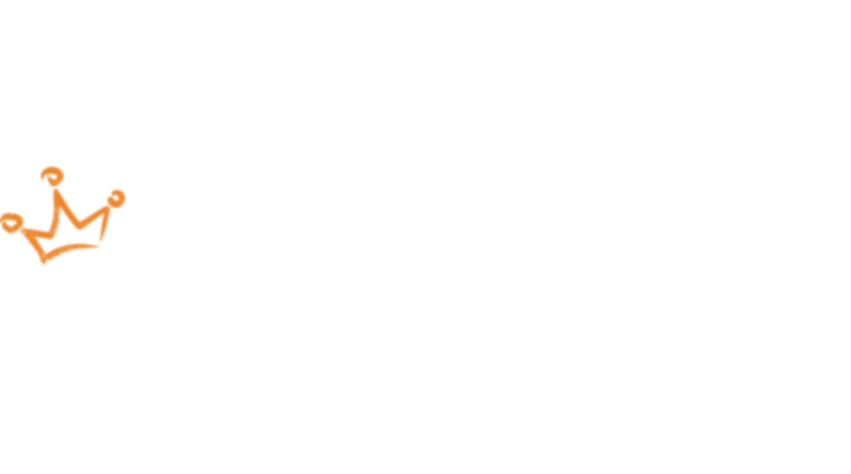
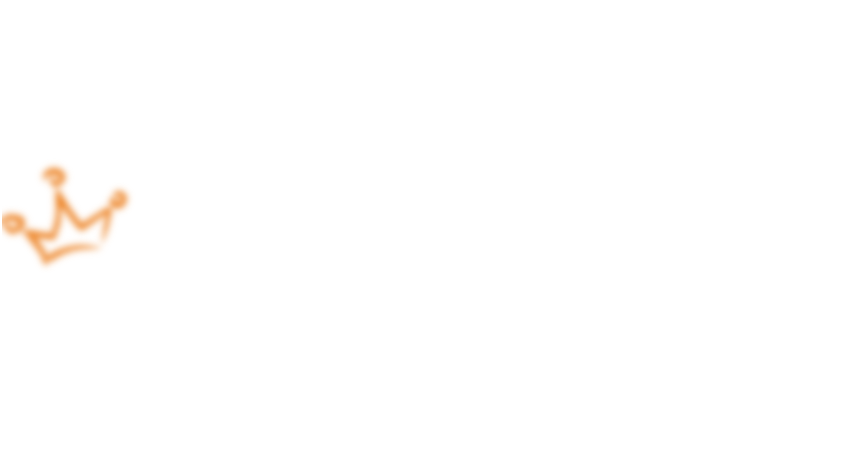
Minor Changes Done

Changed region(s): [[0.0, 0.3544, 0.1528, 0.5612]]

diff --git a/public/js/home.js b/public/js/home.js
@@ -71,7 +71,7 @@ var flutter = setInterval(() => {
     x = 0;
     document.getElementById("logo2").hidden = true;
   }
-}, 300);
+}, Math.random()*200+200);
 
 function on_event_data() {
   off_overlay("overlay_events");

diff --git a/app/styles/partials/home.scss b/app/styles/partials/home.scss
@@ -19,7 +19,7 @@
 
 #bg-img2{
   background-image: url("/images/-10.png");
-  transform: scale(1.1);
+  transform: scale(1.2);
   filter: blur(15px);
   z-index: -1;
 }
